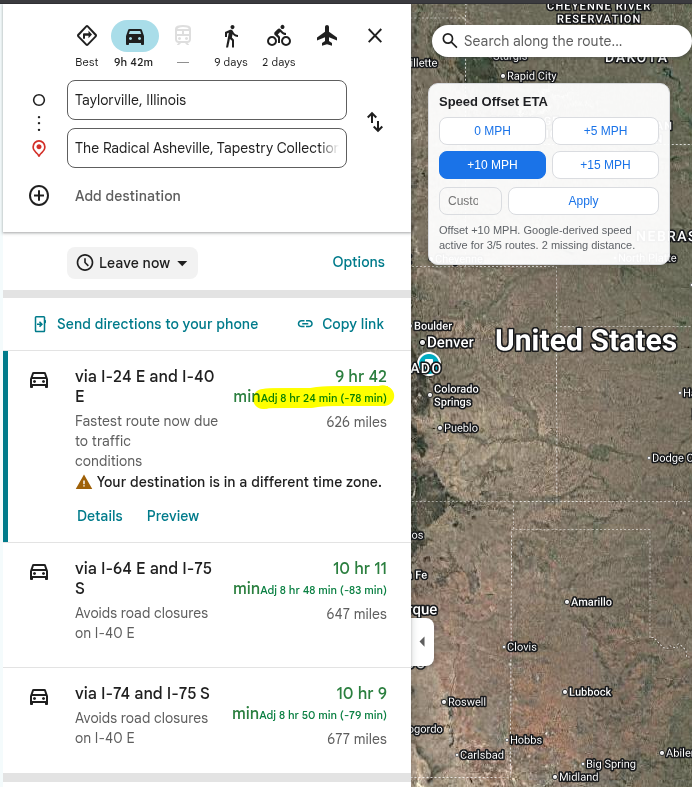
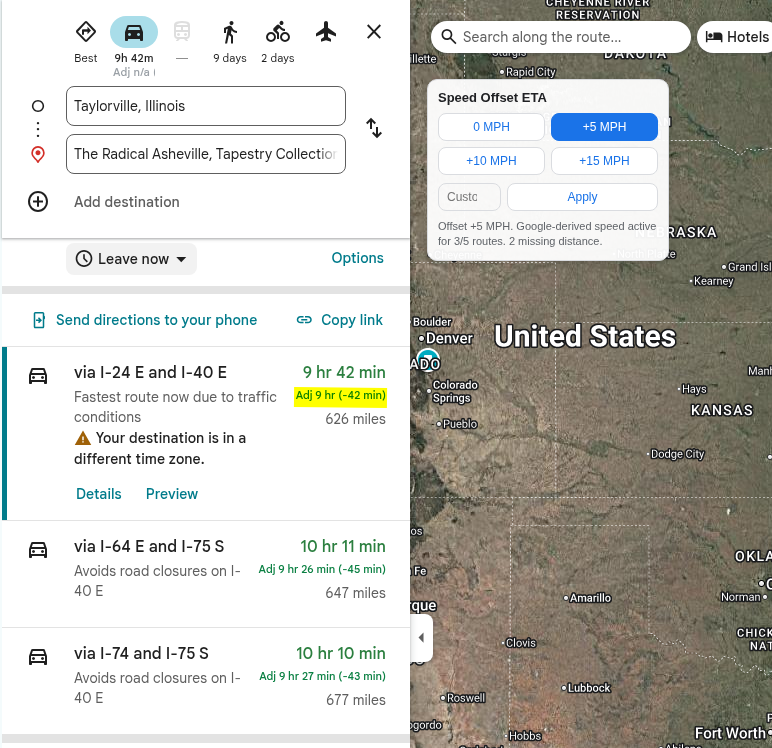
Update adjusted ETA layout and screenshot
Force adjusted ETA onto its own line in route cards and refresh the README screenshot asset used for public sharing.

diff --git a/content.css b/content.css
@@ -75,12 +75,12 @@
 }
 
 .gmso-duration-host {
-  display: inline-flex;
-  align-items: center;
-  gap: 6px;
+  display: block;
 }
 
 .gmso-adjusted-eta {
+  display: block;
+  margin-top: 2px;
   font-size: 11px;
   color: #0b8043;
   white-space: nowrap;